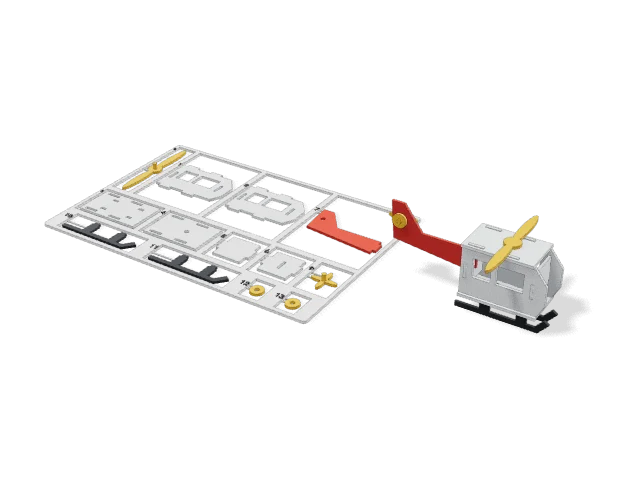
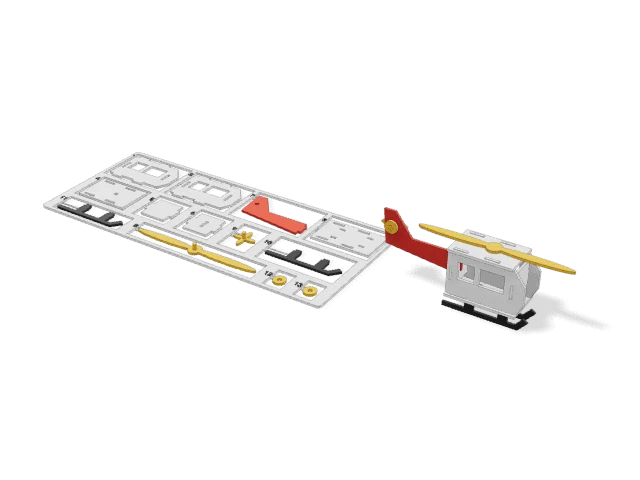
feat: avião de asa média: asa no meio atravessando as laterais (ou baixa/alta), tampa de cima, deriva única e proporções de treinador; rotor do helicóptero maior

Changed region(s): [[0.0625, 0.2812, 0.9375, 0.7188]]

diff --git a/src/geometry/kit/models/aviao.ts b/src/geometry/kit/models/aviao.ts
@@ -4,89 +4,131 @@ import type { KitEnv, KitPair, KitPart, KitTemplate, Placement } from "../types"
 import { LOCK_GAP, LOCK_R, PIN_R, bulkhead, lockPart, place, rotorShape, sc, spinOf } from "./shared";
 
 /*
- * Avião de kit card: duas laterais da fuselagem, 3 cavernas (nariz, cabine, cauda) que atravessam as laterais por abas,
- * asa baixa, estabilizador que entra por uma fenda aberta atrás, 2 pernas do trem com rodas e a hélice, que gira num pino.
- * Projeto em docs/design/kitcard-aviao-helicoptero.md. Eixos do montado: x = nariz, y = lado, z = para cima.
+ * Avião de kit card, de asa média como um treinador: 2 laterais da fuselagem, 4 cavernas, asa que atravessa as duas laterais por
+ * uma fenda horizontal (travada por duas cavernas que passam por fendas na própria asa), tampa de cima presa por abas,
+ * deriva única que passa por uma fenda na tampa e se apoia no estabilizador, trem com rodas e hélice que gira num pino.
+ * Proporções (comprimento 110): envergadura 120 (1,1×), asa a 1/3 do nariz, estabilizador de 44, hélice de 32.
+ * Eixos do montado: x = nariz, y = lado, z = para cima. Posição da asa: média (padrão), baixa ou alta.
  */
 
 const SIDE_Y = 5.5; // as laterais ficam em y = ±5,5, sem escala: o eixo da hélice passa livre entre elas e a trava cabe
-const LEG_Y = 17.6; // pernas do trem
-const LEG_X = 9;
-const ZF = 17; // altura da base da fuselagem
+const ZF = 8; // altura da base da fuselagem
+const TOP = 24; // altura da fuselagem (a tampa fica aqui)
 const NOSE_X = 52.5;
-const CAB_X = 10;
-const TAIL_X = -40;
-const WING_TABS = [2, 16]; // abas das laterais que atravessam a asa
-const SLIT_V = 22; // altura da fenda do estabilizador na lateral
-const PROP_GAP = 0.4; // vão entre a hélice e o nariz
-const LEG_H = 13.9; // altura do corpo da perna
-const AXLE_V = 4; // altura do furo do eixo na perna
+const TAIL_RIB_X = -40;
+const WING_RIBS = [27, 8.5]; // cavernas que travam a asa (passam por fendas nela)
+const WING_X0 = 4.3; // corda da asa na raiz
+const WING_X1 = 32.3;
+const HALF_SPAN = 60;
+const WING_V = { mid: 12, low: 6, high: 18 } as const;
+const SV = 17; // altura da fenda do estabilizador nas laterais
+const TOP_TABS = [-30, 0, 30]; // abas de cima das laterais, que atravessam a tampa
+const TOP_TAB_W = 8;
+const FIN_X0 = -52; // a deriva passa pela tampa entre FIN_X0 e FIN_X1
+const FIN_X1 = -40;
+const FIN_TABS = [-49, -43];
+const FIN_H = 20; // quanto a deriva sobe acima da tampa
+const LEG_Y = 20; // pernas do trem
+const LEG_X = 18;
+const LEG_Z = 1.5; // base da perna
+const WHEEL_R = 4.5;
+const AXLE_V = WHEEL_R - LEG_Z; // altura do furo do eixo na perna (a roda toca a mesa)
 const WHEEL_GAP = 0.3; // vão entre a roda e a perna
+const PROP_GAP = 0.4; // vão entre a hélice e o nariz
+const SLIT_Y = 7; // as fendas da asa cobrem as abas das cavernas (até 6,8)
 
-const FUSELAGE: [number, number][] = [[-40, 0], [48, 0], [55, 6], [55, 16], [46, 22], [-28, 24], [-46, 38], [-55, 38], [-55, 12]];
+const FUSELAGE: [number, number][] = [[-25, 0], [48, 0], [55, 6], [55, 15], [40, TOP], [-55, TOP], [-55, 14]];
+const wingV = (e: KitEnv) => WING_V[String(e.p.wingPos) as keyof typeof WING_V] ?? WING_V.mid;
 
 type Rib = { id: string; label: string; x: number; v0: number; v1: number; tabC: number; tabH: number };
-const RIBS: Rib[] = [
-  { id: "caverna-nariz", label: "Caverna do nariz", x: NOSE_X, v0: 5.5, v1: 15.5, tabC: 10.5, tabH: 6 },
-  { id: "caverna-cabine", label: "Caverna da cabine", x: CAB_X, v0: 2, v1: 24, tabC: 12, tabH: 9 },
-  { id: "caverna-cauda", label: "Caverna da cauda", x: TAIL_X, v0: 4, v1: 20.5, tabC: 12, tabH: 9 },
-];
+const ribs = (e: KitEnv): Rib[] => {
+  const wv = wingV(e);
+  return [
+    { id: "caverna-nariz", label: "Caverna do nariz", x: NOSE_X, v0: 5.5, v1: 15.5, tabC: 10.5, tabH: 6 },
+    { id: "caverna-frente", label: "Caverna da frente da asa", x: WING_RIBS[0], v0: 2, v1: 22, tabC: wv, tabH: 7 },
+    { id: "caverna-tras", label: "Caverna de trás da asa", x: WING_RIBS[1], v0: 2, v1: 22, tabC: wv, tabH: 7 },
+    { id: "caverna-cauda", label: "Caverna da cauda", x: TAIL_RIB_X, v0: 8, v1: 15, tabC: 11.5, tabH: 5 },
+  ];
+};
 
 function side(e: KitEnv): KitPart {
   const { M, k, t, fit, scale: s } = e;
-  let cs = poly(M, k, sc(FUSELAGE, s));
-  // abas de baixo que atravessam a asa
-  const tabs = WING_TABS.map((x) => rect(M, k, (x - 3) * s, -(t + 0.5), (x + 3) * s, 0.02));
-  cs = k(M.CrossSection.union([cs, ...tabs]));
-  // janelas das cavernas
-  const windows = RIBS.map((r) => tabWindow(M, k, { cx: r.x * s, cy: r.tabC * s, tabW: r.tabH, t, fit, vertical: true }));
-  // fenda do estabilizador, aberta por trás
-  const slit = rect(M, k, -60 * s, SLIT_V * s, -37 * s, SLIT_V * s + t + fit);
-  return { id: "lateral", label: "Lateral da fuselagem", count: 2, layers: [{ cs: k(cs.subtract(k(M.CrossSection.union([...windows, slit])))), color: "body" }] };
+  const wv = wingV(e);
+  const body = poly(M, k, sc(FUSELAGE, s));
+  const tabs = TOP_TABS.map((x) => rect(M, k, (x - TOP_TAB_W / 2) * s, TOP * s - 0.02, (x + TOP_TAB_W / 2) * s, TOP * s + t + 0.5));
+  const outline = k(M.CrossSection.union([body, ...tabs]));
+  const windows = ribs(e).map((r) => tabWindow(M, k, { cx: r.x * s, cy: r.tabC * s, tabW: r.tabH, t, fit, vertical: true }));
+  const wingSlot = rect(M, k, WING_X0 * s - fit / 2, wv * s - (t + fit) / 2, WING_X1 * s + fit / 2, wv * s + (t + fit) / 2);
+  const stabSlot = rect(M, k, -60 * s, SV * s, -37 * s, SV * s + t + fit); // aberta por trás
+  return { id: "lateral", label: "Lateral da fuselagem", count: 2, layers: [{ cs: k(outline.subtract(k(M.CrossSection.union([...windows, wingSlot, stabSlot])))), color: "body" }] };
 }
 
-function rib(e: KitEnv, r: Rib, withHole: boolean): KitPart {
+function rib(e: KitEnv, r: Rib): KitPart {
   const { M, k, t, scale: s } = e;
   const half = SIDE_Y - t / 2 - 0.05;
-  const holes = withHole ? [disc(M, k, 0, r.tabC * s, PIN_R + spinOf(e) / 2)] : [];
+  const holes = r.id === "caverna-nariz" ? [disc(M, k, 0, r.tabC * s, PIN_R + spinOf(e) / 2)] : [];
   return { id: r.id, label: r.label, layers: [{ cs: bulkhead(e, { half, v0: r.v0 * s, v1: r.v1 * s, tabC: r.tabC * s, tabH: r.tabH, holes }), color: "body" }] };
 }
 
 function wing(e: KitEnv): KitPart {
   const { M, k, t, fit, scale: s } = e;
-  const outline = poly(M, k, sc([[-52, -12], [-52, -2], [-16, 22], [16, 22], [52, -2], [52, -12], [16, -6], [-16, -6]], s));
+  // (lado, corda): corda reta na raiz e afilando para a ponta
+  const outline = poly(M, k, sc([[-HALF_SPAN, 11], [-HALF_SPAN, 22], [-16, WING_X1], [16, WING_X1], [HALF_SPAN, 22], [HALF_SPAN, 11], [16, WING_X0], [-16, WING_X0]], s));
+  const slits = WING_RIBS.map((x) => rect(M, k, -SLIT_Y, x * s - (t + fit) / 2, SLIT_Y, x * s + (t + fit) / 2));
+  const legs = [-1, 1].map((sg) => tabWindow(M, k, { cx: sg * LEG_Y, cy: LEG_X * s, tabW: 8, t, fit, vertical: true }));
+  return { id: "asa", label: "Asa", layers: [{ cs: k(outline.subtract(k(M.CrossSection.union([...slits, ...legs])))), color: "wing" }] };
+}
+
+function cover(e: KitEnv): KitPart {
+  const { M, k, t, fit, scale: s } = e;
+  const half = SIDE_Y + t / 2 + 1.6;
   const holes: CS[] = [];
-  for (const sg of [-1, 1]) {
-    for (const x of WING_TABS) holes.push(tabWindow(M, k, { cx: sg * SIDE_Y, cy: x * s, tabW: 6, t, fit, vertical: true }));
-    holes.push(tabWindow(M, k, { cx: sg * LEG_Y, cy: LEG_X * s, tabW: 8, t, fit, vertical: true }));
-  }
-  return { id: "asa", label: "Asa", layers: [{ cs: k(outline.subtract(k(M.CrossSection.union(holes)))), color: "wing" }] };
+  for (const sg of [-1, 1]) for (const x of TOP_TABS) holes.push(tabWindow(M, k, { cx: x * s, cy: sg * SIDE_Y, tabW: TOP_TAB_W, t, fit, vertical: false }));
+  holes.push(rect(M, k, FIN_X0 * s - fit / 2, -(t + fit) / 2, FIN_X1 * s + fit / 2, (t + fit) / 2));
+  return { id: "tampa", label: "Tampa da fuselagem", layers: [{ cs: k(rect(M, k, -55 * s, -half, 38 * s, half).subtract(k(M.CrossSection.union(holes)))), color: "body" }] };
+}
+
+/** Altura (do montado, sem ZF) da face de cima do estabilizador e da face de cima da tampa. */
+const stabTop = (e: KitEnv) => SV * e.scale + 0.1 + e.t;
+const coverTop = (e: KitEnv) => TOP * e.scale + 0.02 + e.t;
+
+function fin(e: KitEnv): KitPart {
+  const { M, k, t, scale: s } = e;
+  const [vb, vs] = [stabTop(e), coverTop(e)];
+  const body = poly(M, k, [[FIN_X0 * s, vb], [FIN_X1 * s, vb], [FIN_X1 * s, vs], [-47 * s, vs + FIN_H * s], [-55 * s, vs + FIN_H * s], [-55 * s, vs], [FIN_X0 * s, vs]]);
+  const tabs = FIN_TABS.map((x) => rect(M, k, (x - 2) * s, vb - (t + 0.5), (x + 2) * s, vb + 0.01));
+  return { id: "deriva", label: "Deriva", layers: [{ cs: k(M.CrossSection.union([body, ...tabs])), color: "wing" }] };
 }
 
 function stabilizer(e: KitEnv): KitPart {
-  const { M, k, scale: s } = e;
-  // (lado, corda): o miolo fica na fenda das laterais, a ponta é mais curta e recuada
-  const cs = poly(M, k, sc([[-26, -54.5], [-26, -48], [-8, -37.5], [8, -37.5], [26, -48], [26, -54.5]], s));
-  return { id: "estabilizador", label: "Estabilizador", layers: [{ cs, color: "wing" }] };
+  const { M, k, t, fit, scale: s } = e;
+  // (lado, corda): o miolo fica na fenda das laterais; a deriva se apoia nele por duas abas
+  const outline = poly(M, k, sc([[-22, -54.5], [-22, -47], [-8, -37.5], [8, -37.5], [22, -47], [22, -54.5]], s));
+  const windows = FIN_TABS.map((x) => tabWindow(M, k, { cx: 0, cy: x * s, tabW: 4 * s, t, fit, vertical: true }));
+  return { id: "estabilizador", label: "Estabilizador", layers: [{ cs: k(outline.subtract(k(M.CrossSection.union(windows)))), color: "wing" }] };
 }
+
+/** Altura da perna: da base (LEG_Z) até a face de baixo da asa. */
+const legH = (e: KitEnv) => ZF + wingV(e) * e.scale - e.t / 2 - LEG_Z;
 
 function leg(e: KitEnv): KitPart {
   const { M, k, t, pinFit } = e;
-  const body = poly(M, k, [[-6, LEG_H], [6, LEG_H], [4.5, 0], [-4.5, 0]]);
-  const tab = rect(M, k, -4, LEG_H - 0.01, 4, LEG_H + t + 0.5);
+  const h = legH(e);
+  const body = poly(M, k, [[-6, h], [6, h], [4.5, 0], [-4.5, 0]]);
+  const tab = rect(M, k, -4, h - 0.01, 4, h + t + 0.5);
   const cs = k(k(M.CrossSection.union([body, tab])).subtract(pinHole(M, k, { x: 0, y: AXLE_V, r: PIN_R, fit: pinFit })));
   return { id: "perna", label: "Perna do trem", count: 2, layers: [{ cs, color: "wheel" }] };
 }
 
 function wheel(e: KitEnv): KitPart {
   const { M, k, t } = e;
-  return { id: "roda", label: "Roda", count: 2, layers: [{ cs: disc(M, k, 0, 0, 5.5), color: "wheel" }], pins: [{ x: 0, y: 0, r: PIN_R, len: t + 1.3 }] };
+  return { id: "roda", label: "Roda", count: 2, layers: [{ cs: disc(M, k, 0, 0, WHEEL_R), color: "wheel" }], pins: [{ x: 0, y: 0, r: PIN_R, len: t + 1.3 }] };
 }
 
 function propeller(e: KitEnv): KitPart {
   const { t, scale: s } = e;
   const n = Number(e.p.blades) === 3 ? 3 : 2;
-  const cs = rotorShape(e, { n, len: 22 * s, halfW: 3 * s, hub: 4.5 * s });
+  const cs = rotorShape(e, { n, len: 16 * s, halfW: 2.6 * s, hub: 4.5 * s });
   return { id: "helice", label: "Hélice", layers: [{ cs, color: "prop" }], pins: [{ x: 0, y: 0, r: PIN_R, len: propPinLen(t, s) }] };
 }
 
@@ -96,47 +138,64 @@ const propPinLen = (t: number, s: number) => 55 * s + PROP_GAP - (NOSE_X * s - 1
 export const AVIAO: KitTemplate = {
   id: "kitAviao",
   label: "Avião",
-  blurb: "Kit card de avião: fuselagem de encaixe, asa, trem de pouso e hélice que gira.",
-  palette: [{ key: "body", label: "Fuselagem", default: "#f4f4f2" }, { key: "wing", label: "Asas", default: "#d94a3a" }, { key: "wheel", label: "Trem e rodas", default: "#1c1c1e" }, { key: "prop", label: "Hélice", default: "#f0b429" }],
-  artTargets: [["lateral", "Lateral da fuselagem"], ["asa", "Asa"]],
-  defaults: { blades: 2 },
-  sections: [{ title: "Avião", fields: [{ k: "blades", kind: "choice", label: "Pás da hélice", options: [["2", "2 pás"], ["3", "3 pás"]] }] }],
+  blurb: "Kit card de avião de asa média: fuselagem de encaixe com tampa, asa que atravessa as laterais, deriva, trem de pouso e hélice que gira.",
+  palette: [{ key: "body", label: "Fuselagem", default: "#f4f4f2" }, { key: "wing", label: "Asas e deriva", default: "#d94a3a" }, { key: "wheel", label: "Trem e rodas", default: "#1c1c1e" }, { key: "prop", label: "Hélice", default: "#f0b429" }],
+  artTargets: [["lateral", "Lateral da fuselagem"], ["asa", "Asa"], ["tampa", "Tampa"]],
+  defaults: { blades: 2, wingPos: "mid" },
+  sections: [
+    {
+      title: "Avião",
+      fields: [
+        { k: "wingPos", kind: "choice", label: "Posição da asa", options: [["mid", "No meio (padrão)"], ["low", "Baixa"], ["high", "Alta"]] },
+        { k: "blades", kind: "choice", label: "Pás da hélice", options: [["2", "2 pás"], ["3", "3 pás"]] },
+      ],
+    },
+  ],
   build: (e) => {
     const { t, pinFit, scale: s } = e;
     const spin = spinOf(e);
-    const parts: KitPart[] = [side(e), rib(e, RIBS[0], true), rib(e, RIBS[1], false), rib(e, RIBS[2], false), wing(e), stabilizer(e), leg(e), wheel(e), propeller(e), lockPart(e, { id: "trava", label: "Trava da hélice", color: "prop", r: Math.min(LOCK_R, SIDE_Y - e.t / 2 - 0.3) })];
+    const rs = ribs(e);
+    const lock = lockPart(e, { id: "trava", label: "Trava da hélice", color: "prop", r: Math.min(LOCK_R, SIDE_Y - t / 2 - 0.3) });
+    const parts: KitPart[] = [side(e), ...rs.map((r) => rib(e, r)), wing(e), cover(e), fin(e), stabilizer(e), leg(e), wheel(e), propeller(e), lock];
     const assembly: Placement[] = [
       place("lateral", [0, SIDE_Y + t / 2, ZF], [90, 0, 0], 1),
       place("lateral", [0, -SIDE_Y + t / 2, ZF], [90, 0, 0], 2),
-      ...RIBS.map((r) => place(r.id, [r.x * s - t / 2, 0, ZF], [90, 0, 90])),
-      place("asa", [0, 0, ZF - t - 0.02], [0, 0, -90]),
-      place("estabilizador", [0, 0, ZF + SLIT_V * s + 0.1], [0, 0, -90]),
+      ...rs.map((r) => place(r.id, [r.x * s - t / 2, 0, ZF], [90, 0, 90])),
+      place("asa", [0, 0, ZF + wingV(e) * s - t / 2], [0, 0, -90]),
+      place("tampa", [0, 0, ZF + TOP * s + 0.02]),
+      place("deriva", [0, t / 2, ZF], [90, 0, 0]),
+      place("estabilizador", [0, 0, ZF + SV * s + 0.1], [0, 0, -90]),
     ];
-    const legZ = ZF - t - 0.02 - LEG_H;
-    const axleZ = legZ + AXLE_V;
+    const axleZ = LEG_Z + AXLE_V;
     const lockX = NOSE_X * s - t / 2 - LOCK_GAP;
-    const noseZ = ZF + RIBS[0].tabC * s;
+    const noseZ = ZF + rs[0].tabC * s;
     for (const [i, sg] of [[1, 1], [2, -1]] as const) {
       const wheelY = sg * (LEG_Y + t / 2 + WHEEL_GAP) + (sg > 0 ? t : -t);
       assembly.push(
-        place("perna", [LEG_X * s, sg * LEG_Y + t / 2, legZ], [90, 0, 0], i),
+        place("perna", [LEG_X * s, sg * LEG_Y + t / 2, LEG_Z], [90, 0, 0], i),
         place("roda", [LEG_X * s, wheelY, axleZ], sg > 0 ? [90, 0, 0] : [-90, 0, 0], i),
       );
     }
     assembly.push(place("helice", [55 * s + PROP_GAP + t, 0, noseZ], [90, 0, -90]), place("trava", [lockX, 0, noseZ], [90, 0, -90]));
     const pairs: KitPair[] = [
-      ...RIBS.map((r): KitPair => ({ a: "lateral", b: r.id, kind: "tab-window" })),
+      ...rs.map((r): KitPair => ({ a: "lateral", b: r.id, kind: "tab-window" })),
       { a: "lateral", b: "asa", kind: "tab-window" },
+      { a: "lateral", b: "tampa", kind: "tab-window" },
       { a: "lateral", b: "estabilizador", kind: "tab-window" },
+      { a: "caverna-frente", b: "asa", kind: "slot-slot" },
+      { a: "caverna-tras", b: "asa", kind: "slot-slot" },
+      { a: "deriva", b: "tampa", kind: "tab-window" },
+      { a: "deriva", b: "estabilizador", kind: "tab-window" },
       { a: "perna", b: "asa", kind: "tab-window" },
-      ...[1, 2].flatMap((i): KitPair[] => [{ a: `roda#${i}`, b: `perna#${i}`, kind: "pin-hole", gap: pinFit }]),
+      ...[1, 2].map((i): KitPair => ({ a: `roda#${i}`, b: `perna#${i}`, kind: "pin-hole", gap: pinFit })),
       { a: "helice", b: "caverna-nariz", kind: "pin-hole", gap: spin / 2 },
       { a: "helice", b: "trava", kind: "pin-hole", gap: pinFit },
     ];
     const steps = [
-      "Encaixe as cavernas {caverna-nariz}, {caverna-cabine} e {caverna-cauda} nas janelas das laterais {lateral}.",
-      "Ponha a asa {asa} por baixo, com as abas das laterais nas janelas.",
+      "Passe a asa {asa} pela fenda das laterais {lateral}, de um lado ao outro.",
+      "Encaixe as cavernas {caverna-frente} e {caverna-tras} (elas passam pelas fendas da asa e a travam) e as cavernas {caverna-nariz} e {caverna-cauda} nas janelas das laterais.",
       "Deslize o estabilizador {estabilizador} pela fenda de trás, até encostar.",
+      "Ponha a tampa {tampa} nas abas de cima das laterais e passe a deriva {deriva} pela fenda da tampa, com as abas nas janelas do estabilizador.",
       "Encaixe as pernas {perna} nas janelas da asa e as rodas {roda} nos furos das pernas.",
       "Passe o pino da hélice {helice} pelo furo da caverna do nariz e prenda a trava {trava} na ponta do pino: a hélice tem que girar solta.",
     ];

diff --git a/src/geometry/kit/models/helicoptero.ts b/src/geometry/kit/models/helicoptero.ts
@@ -95,10 +95,10 @@ export const HELICOPTERO: KitTemplate = {
   defaults: { rotorBlades: 2 },
   sections: [{ title: "Helicóptero", fields: [{ k: "rotorBlades", kind: "choice", label: "Pás do rotor principal", options: [["2", "2 pás"], ["3", "3 pás"]] }] }],
   build: (e) => {
-    const { t, pinFit, scale: s } = e;
+    const { k, t, pinFit, scale: s } = e;
     const spin = spinOf(e);
     const n = Number(e.p.rotorBlades) === 3 ? 3 : 2;
-    const main: KitPart = { id: "rotor", label: "Rotor principal", layers: [{ cs: rotorShape(e, { n, len: 34 * s, halfW: 2.8 * s, hub: 5 * s }), color: "rotor" }], pins: [{ x: 0, y: 0, r: PIN_R, len: pinLen(t) }] };
+    const main: KitPart = { id: "rotor", label: "Rotor principal", layers: [{ cs: k(rotorShape(e, { n, len: (n === 3 ? 36 : 50) * s, halfW: 3 * s, hub: 5 * s }).rotate(90)), color: "rotor" }], pins: [{ x: 0, y: 0, r: PIN_R, len: pinLen(t) }] };
     const tail: KitPart = { id: "rotor-cauda", label: "Rotor de cauda", layers: [{ cs: rotorShape(e, { n: 4, len: 9, halfW: 1.6, hub: 2.5 }), color: "rotor" }], pins: [{ x: 0, y: 0, r: PIN_R, len: pinLen(t) }] };
     const parts: KitPart[] = [side(e), deck(e, "piso"), deck(e, "teto"), bulk(e, "anteparo-frente"), bulk(e, "anteparo-tras"), boom(e), main, tail, skid(e), lockPart(e, { id: "trava", label: "Trava do rotor", color: "rotor", count: 2 })];
 

diff --git a/src/geometry/kit/models/aviao.test.ts b/src/geometry/kit/models/aviao.test.ts
@@ -15,9 +15,11 @@ beforeAll(async () => {
 });
 
 const CASES: [KitTemplate, KitParams, number][] = [
-  [AVIAO, { blades: 2 }, 12],
-  [AVIAO, { blades: 3 }, 12],
-  [AVIAO, { scale: 0.8, thickness: 1.4 }, 12],
+  [AVIAO, { blades: 2 }, 20],
+  [AVIAO, { blades: 3 }, 20],
+  [AVIAO, { wingPos: "low" }, 20],
+  [AVIAO, { wingPos: "high" }, 20],
+  [AVIAO, { scale: 0.8, thickness: 1.4 }, 20],
   [HELICOPTERO, { rotorBlades: 2 }, 10],
   [HELICOPTERO, { rotorBlades: 3 }, 10],
   [HELICOPTERO, { scale: 0.8, thickness: 1.4 }, 10],

diff --git a/CHANGELOG.md b/CHANGELOG.md
@@ -4,7 +4,7 @@ Cada versão aparece para a usuária na tela "O que há de novo" depois da atual
 Formato: `## <versão> — <data>` e itens `- …` em linguagem simples.
 
 ## Próxima versão (ainda não lançada)
-- **Kit card: avião e helicóptero para montar**: dois kits desenhados peça por peça. O avião tem fuselagem de duas laterais, asa, estabilizador, trem de pouso com rodas e hélice que gira num pino; o helicóptero tem cabine com janelas, cauda, esquis e dois rotores que giram. Cada peça encaixa por abas e janelas, e as peças que giram prendem por uma trava. Escolha o número de pás, o tamanho, as cores e coloque seu nome ou arte.
+- **Kit card: avião e helicóptero para montar**: dois kits desenhados peça por peça. O avião tem asa no meio (ou baixa/alta, à sua escolha) que atravessa as duas laterais como num aviãozinho de balsa, tampa de cima, deriva única, estabilizador, trem de pouso com rodas e hélice que gira num pino; o helicóptero tem cabine com janelas, cauda, esquis e dois rotores que giram. Cada peça encaixa por abas, fendas e janelas, e as peças que giram prendem por uma trava. Escolha o número de pás, o tamanho, as cores e coloque seu nome ou arte.
 
 ## 0.12.1 — 2026-10-11
 - **Kit card por imagem é experimental**: o aviso na tela diz que funciona melhor com silhuetas simples. Os kits desenhados peça por peça (carro, caminhão e outros) chegam em seguida.
